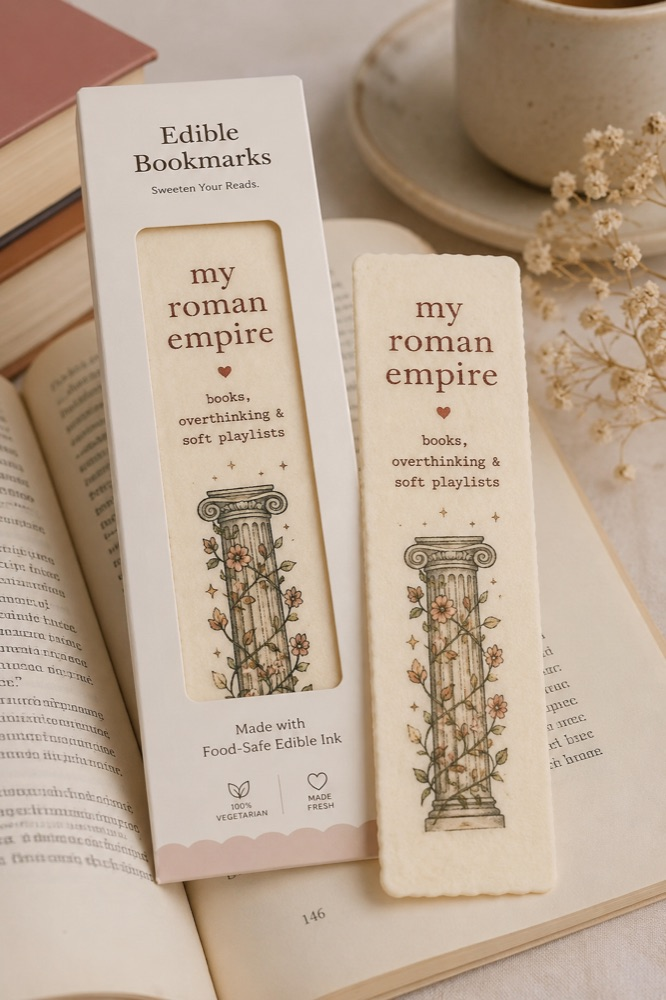
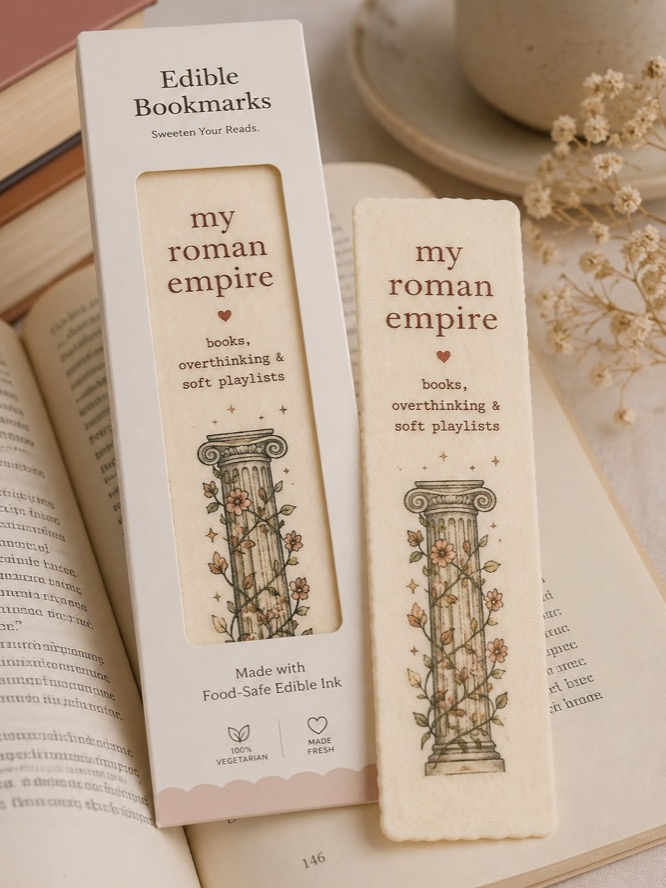
Reorder grid by availability, crop photos to frame, rebuild hero cards
- Grid now renders in-stock products (1,4,6) first so all three coming-soon
  ones land together on the second row, driven by a single IN_STOCK list.
- Photos pre-cropped to exactly 3:4 and switched to object-fit:cover, so
  they fill the frame with no letterbox margin and no gradient showing
  through. Originals kept in img/_original/.
- Hero is now 3 cards for the products we actually have, each carrying
  badge + name + flavour + price with the emoji as an oversized watermark,
  instead of one small emoji floating in an empty tile.

diff --git a/index.html b/index.html
@@ -51,17 +51,21 @@ nav a:hover{opacity:1}
 .btn-ghost:hover{color:#fff;border-color:rgba(255,255,255,.7)}
 
 /* hero product cards */
-.hero-cards{padding:60px 60px 60px 0;position:relative;z-index:2;display:grid;grid-template-columns:1fr 1fr;gap:12px;align-content:center}
-.hcard{border-radius:14px;padding:18px 14px 14px;display:flex;flex-direction:column;justify-content:flex-end;height:190px;text-decoration:none;position:relative;overflow:hidden;transition:transform .2s}
-.hcard:hover{transform:scale(1.025)}
-.hcard-em{font-size:46px;position:absolute;top:50%;left:50%;transform:translate(-50%,-65%)}
-.hcard.shift{margin-top:28px}
-.hcard-name{font-family:'Playfair Display',serif;font-size:13px;font-weight:700;color:#fff;line-height:1.25;margin-bottom:2px}
-.hcard-price{font-size:11px;color:rgba(255,255,255,.55)}
+.hero-cards-col{padding:60px 60px 60px 0;position:relative;z-index:2;display:flex;flex-direction:column;justify-content:center}
+.hero-cards{display:flex;flex-direction:column;gap:10px}
+.hcard{border-radius:14px;padding:20px 22px;display:flex;align-items:center;gap:18px;min-height:104px;text-decoration:none;position:relative;overflow:hidden;transition:transform .2s,box-shadow .25s}
+.hcard:hover{transform:translateX(5px);box-shadow:0 12px 34px rgba(0,0,0,.32)}
+/* the emoji becomes an oversized watermark instead of a lone floating icon */
+.hcard-em{position:absolute;right:14px;top:50%;transform:translateY(-50%);font-size:82px;line-height:1;opacity:.13;pointer-events:none}
+.hcard-main{flex:1;min-width:0;position:relative;z-index:2}
+.hcard-badge{font-size:9px;font-weight:700;text-transform:uppercase;letter-spacing:1.3px;color:rgba(255,255,255,.45);margin-bottom:6px}
+.hcard-name{font-family:'Playfair Display',serif;font-size:20px;font-weight:700;color:#fff;line-height:1.14;margin-bottom:5px}
+.hcard-flavor{font-size:11.5px;color:rgba(255,255,255,.5);font-style:italic}
+.hcard-price{font-size:16px;font-weight:700;color:#fff;flex-shrink:0;position:relative;z-index:2}
+.hero-cards-note{font-size:10px;font-weight:600;text-transform:uppercase;letter-spacing:1.6px;color:rgba(255,255,255,.3);margin-top:14px;text-align:center}
 .hc1{background:linear-gradient(150deg,#3a1010 0%,#7d2222 100%)}
-.hc2{background:linear-gradient(150deg,#260e2a 0%,#6e2a78 100%)}
-.hc3{background:linear-gradient(150deg,#0e1c0e 0%,#2d5228 100%)}
 .hc4{background:linear-gradient(150deg,#2a160a 0%,#7a4018 100%)}
+.hc5{background:linear-gradient(150deg,#16161a 0%,#3b3b48 100%)}
 
 /* ── trust strip ── */
 .trust-strip{background:var(--cream);border-bottom:1px solid var(--border)}
@@ -84,11 +88,12 @@ nav a:hover{opacity:1}
 .pcard-img::before{content:'';position:absolute;inset:0;background:radial-gradient(circle at 28% 72%,rgba(200,145,58,.06) 0%,transparent 55%),radial-gradient(circle at 72% 22%,rgba(139,26,26,.04) 0%,transparent 50%)}
 .pcard-badge{position:absolute;top:10px;left:10px;background:var(--red);color:#fff;font-size:9px;font-weight:700;text-transform:uppercase;letter-spacing:.4px;padding:3px 8px;border-radius:100px;z-index:3}
 .bm-wrap{width:52%;filter:drop-shadow(0 6px 20px rgba(0,0,0,.32));position:relative;z-index:2}
-.bm-wrap:has(.bm.has-photo){width:82%;filter:none}
+/* photos are pre-cropped to 3/4 — let them fill the frame edge to edge */
+.bm-wrap:has(.bm.has-photo){width:100%;filter:none}
 .bm{clip-path:polygon(0 0,100% 0,100% 87%,50% 100%,0 87%);aspect-ratio:1/2.5;display:flex;flex-direction:column;align-items:center;padding-top:17%;position:relative;overflow:hidden}
-.bm.has-photo{clip-path:none;aspect-ratio:3/4;padding-top:0;overflow:visible}
+.bm.has-photo{clip-path:none;aspect-ratio:3/4;padding-top:0;background:none}
 .bm::after{content:'';position:absolute;top:0;left:0;right:52%;bottom:36%;background:linear-gradient(130deg,rgba(255,255,255,.22) 0%,transparent 65%);z-index:1;pointer-events:none}
-.bm-photo{display:none;position:absolute;inset:0;width:100%;height:100%;object-fit:contain;z-index:1;border-radius:0;filter:drop-shadow(0 6px 20px rgba(0,0,0,.28))}
+.bm-photo{display:none;position:absolute;inset:0;width:100%;height:100%;object-fit:cover;z-index:1}
 .bm.has-photo .bm-photo{display:block}
 .bm.has-photo .bm-em,.bm.has-photo .bm-nm{display:none}
 .bm.has-photo::after{display:none}
@@ -160,8 +165,11 @@ footer{background:var(--ink);color:rgba(255,255,255,.4)}
 @media(max-width:960px){
   .hero{grid-template-columns:1fr}
   .hero-text{padding:64px 28px 32px}
-  .hero-cards{display:grid;grid-template-columns:repeat(4,1fr);gap:8px;padding:0 28px 56px}
-  .hcard{min-height:140px}.hcard.shift{margin-top:16px}
+  .hero-cards-col{padding:0 28px 56px}
+  .hero-cards{gap:8px}
+  .hcard{min-height:88px;padding:16px 18px}
+  .hcard-em{font-size:62px;right:10px}
+  .hcard-name{font-size:17px}
   .pgrid{grid-template-columns:repeat(2,1fr)}
   .vgrid,.rgrid{grid-template-columns:1fr}
   .vcard{border-right:none}.vcard:last-child{border-top:none}
@@ -222,11 +230,9 @@ footer{background:var(--ink);color:rgba(255,255,255,.4)}
       <a href="about.html" class="btn-ghost">our story →</a>
     </div>
   </div>
-  <div class="hero-cards">
-    <a href="product.html?id=1" class="hcard hc1"><div class="hcard-em">🏛</div><div><div class="hcard-name">my roman<br/>empire</div><div class="hcard-price">₹299</div></div></a>
-    <a href="product.html?id=4" class="hcard hc3 shift"><div class="hcard-em">🕯</div><div><div class="hcard-name">one more<br/>chapter</div><div class="hcard-price">₹279</div></div></a>
-    <a href="product.html?id=6" class="hcard hc2"><div class="hcard-em">🌑</div><div><div class="hcard-name">they had<br/>valid points</div><div class="hcard-price">₹329</div></div></a>
-    <a href="product.html?id=2" class="hcard hc4 shift"><div class="hcard-em">🌹</div><div><div class="hcard-name">down bad for<br/>a fictional man</div><div class="hcard-price">₹329</div></div></a>
+  <div class="hero-cards-col">
+    <div class="hero-cards" id="hero-cards"></div>
+    <div class="hero-cards-note" id="hero-cards-note"></div>
   </div>
 </section>
 
@@ -336,8 +342,28 @@ const PRODUCTS={
   6:{name:'they had valid points actually',bmname:'they had<br/>valid points<br/>actually',flavor:'Dark Chocolate + Sea Salt',price:329,emoji:'🌑',cls:'pi6',badge:'morally grey',desc:'Complex. Sharp. For the villain you understood. No notes, only feelings.'},
 };
 function trackProductClick(id){nml.track('product_card_click',{product_id:parseInt(id),product_name:PRODUCTS[id].name,price:PRODUCTS[id].price});}
+
+// Single source of truth for what we can actually show. IN_STOCK have real
+// photography and lead the grid; COMING_SOON fill the second row (3-col grid).
+const IN_STOCK=[1,4,6];
+const COMING_SOON=[2,3,5];
+const GRID_ORDER=[...IN_STOCK,...COMING_SOON];
+const HERO_CLS={1:'hc1',4:'hc4',6:'hc5'};
+
+document.getElementById('hero-cards').innerHTML=IN_STOCK.map(id=>{const p=PRODUCTS[id];return `
+  <a href="product.html?id=${id}" class="hcard ${HERO_CLS[id]}" onclick="trackProductClick(${id})">
+    <span class="hcard-em">${p.emoji}</span>
+    <div class="hcard-main">
+      <div class="hcard-badge">${p.badge}</div>
+      <div class="hcard-name">${p.name}</div>
+      <div class="hcard-flavor">${p.flavor}</div>
+    </div>
+    <div class="hcard-price">₹${p.price}</div>
+  </a>`}).join('');
+document.getElementById('hero-cards-note').textContent=`${IN_STOCK.length} flavours ready now · ${COMING_SOON.length} more coming soon`;
+
 const pgrid=document.getElementById('pgrid');
-pgrid.innerHTML=Object.entries(PRODUCTS).map(([id,p])=>`
+pgrid.innerHTML=GRID_ORDER.map(id=>{const p=PRODUCTS[id];return `
   <a href="product.html?id=${id}" class="pcard" onclick="trackProductClick(${id})">
     <div class="pcard-img">
       <div class="pcard-badge">${p.badge}</div>
@@ -352,7 +378,7 @@ pgrid.innerHTML=Object.entries(PRODUCTS).map(([id,p])=>`
         <button class="pcard-atc" onclick="quickAdd(event,${id})">+ cart</button>
       </div>
     </div>
-  </a>`).join('');
+  </a>`}).join('');
 
 function getCart(){try{return JSON.parse(localStorage.getItem('nml_cart')||'[]')}catch{return[]}}
 function saveCart(c){localStorage.setItem('nml_cart',JSON.stringify(c))}

diff --git a/product.html b/product.html
@@ -31,11 +31,13 @@ nav a:hover{opacity:1}
 .prod-img{aspect-ratio:1;border-radius:16px;display:flex;align-items:center;justify-content:center;position:relative;background:#fff;border:1px solid var(--border);overflow:hidden}
 .prod-img::before{content:'';position:absolute;inset:0;background:radial-gradient(circle at 28% 72%,rgba(200,145,58,.07) 0%,transparent 55%),radial-gradient(circle at 72% 22%,rgba(139,26,26,.05) 0%,transparent 50%)}
 .prod-bm-wrap{width:46%;filter:drop-shadow(0 10px 32px rgba(0,0,0,.38));position:relative;z-index:2}
-.prod-bm-wrap:has(.prod-bm.has-photo){width:78%;filter:none}
+/* photos are pre-cropped to 3/4 — the frame matches so they fill it exactly */
+.prod-img:has(.prod-bm.has-photo){aspect-ratio:3/4;background:none}
+.prod-bm-wrap:has(.prod-bm.has-photo){width:100%;filter:none}
 .prod-bm{clip-path:polygon(0 0,100% 0,100% 87%,50% 100%,0 87%);aspect-ratio:1/2.6;display:flex;flex-direction:column;align-items:center;padding-top:14%;position:relative;overflow:hidden}
-.prod-bm.has-photo{clip-path:none;aspect-ratio:3/4;padding-top:0;overflow:visible}
+.prod-bm.has-photo{clip-path:none;aspect-ratio:3/4;padding-top:0;background:none}
 .prod-bm::after{content:'';position:absolute;top:0;left:0;right:52%;bottom:35%;background:linear-gradient(130deg,rgba(255,255,255,.24) 0%,transparent 65%);z-index:1;pointer-events:none}
-.prod-bm-photo{display:none;position:absolute;inset:0;width:100%;height:100%;object-fit:contain;z-index:1;filter:drop-shadow(0 8px 26px rgba(0,0,0,.3))}
+.prod-bm-photo{display:none;position:absolute;inset:0;width:100%;height:100%;object-fit:cover;z-index:1}
 .prod-bm.has-photo .prod-bm-photo{display:block}
 .prod-bm.has-photo .prod-bm-em,.prod-bm.has-photo .prod-bm-nm{display:none}
 .prod-bm.has-photo::after{display:none}
@@ -108,12 +110,12 @@ nav a:hover{opacity:1}
 .mini-card:hover{transform:translateY(-3px)}
 .mini-img{aspect-ratio:3/4;display:flex;align-items:center;justify-content:center;background:#fff;position:relative;overflow:hidden}
 .mini-bm-w{width:55%;filter:drop-shadow(0 4px 12px rgba(0,0,0,.28));position:relative;z-index:2}
-.mini-bm-w:has(.mini-bm.has-photo){width:80%;filter:none}
+.mini-bm-w:has(.mini-bm.has-photo){width:100%;filter:none}
 .mini-bm{clip-path:polygon(0 0,100% 0,100% 87%,50% 100%,0 87%);aspect-ratio:1/2.4;display:flex;align-items:flex-start;justify-content:center;padding-top:22%;position:relative;overflow:hidden}
-.mini-bm.has-photo{clip-path:none;aspect-ratio:3/4;padding-top:0;overflow:visible}
+.mini-bm.has-photo{clip-path:none;aspect-ratio:3/4;padding-top:0;background:none}
 .mini-bm::after{content:'';position:absolute;top:0;left:0;right:52%;bottom:36%;background:linear-gradient(130deg,rgba(255,255,255,.18) 0%,transparent 65%)}
 .mini-bm.has-photo::after{display:none}
-.mini-bm-photo{display:none;position:absolute;inset:0;width:100%;height:100%;object-fit:contain;z-index:1;filter:drop-shadow(0 4px 14px rgba(0,0,0,.25))}
+.mini-bm-photo{display:none;position:absolute;inset:0;width:100%;height:100%;object-fit:cover;z-index:1}
 .mini-bm.has-photo .mini-bm-photo{display:block}
 .mini-bm.has-photo .mini-em{display:none}
 .mini-body{padding:10px 12px}
